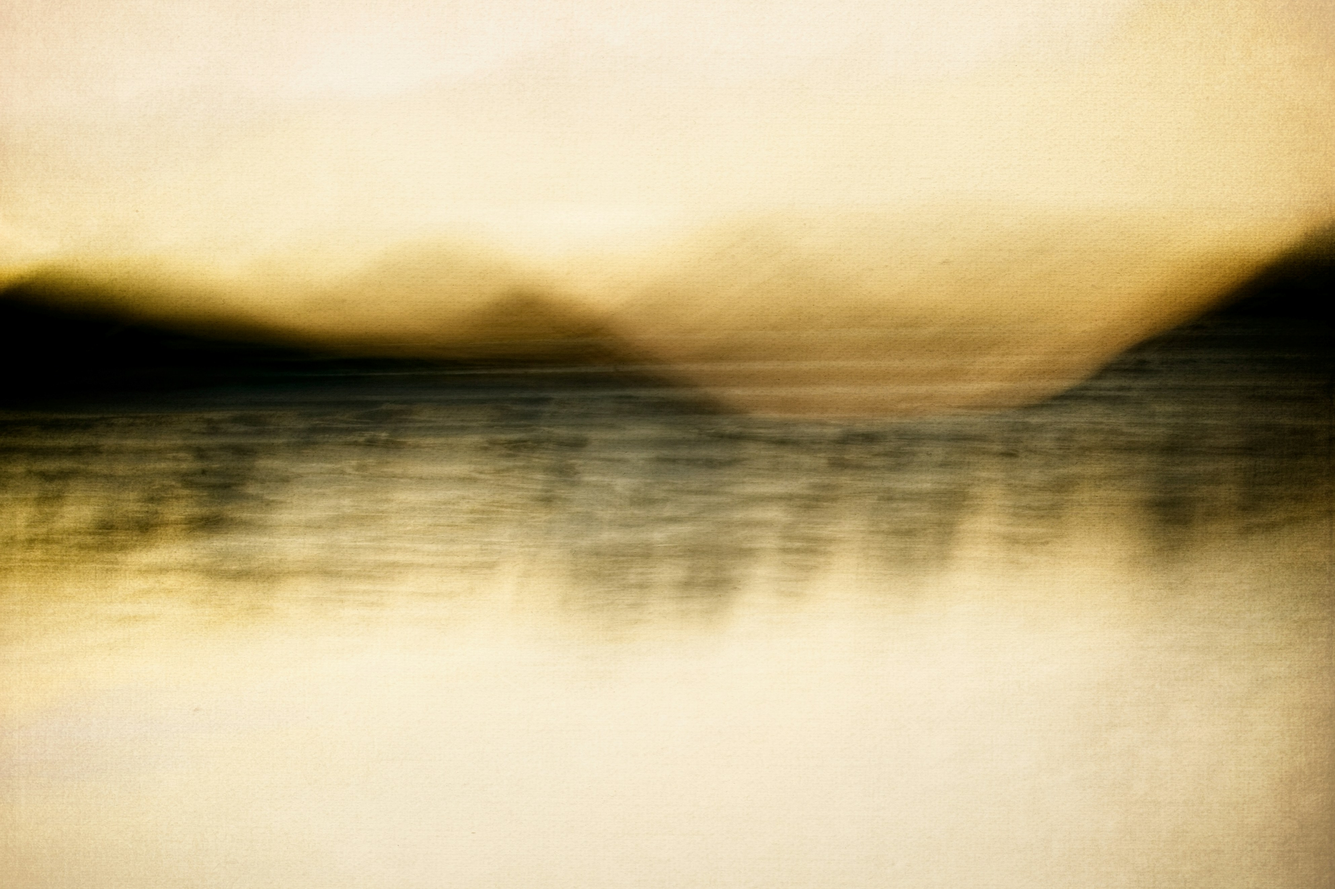
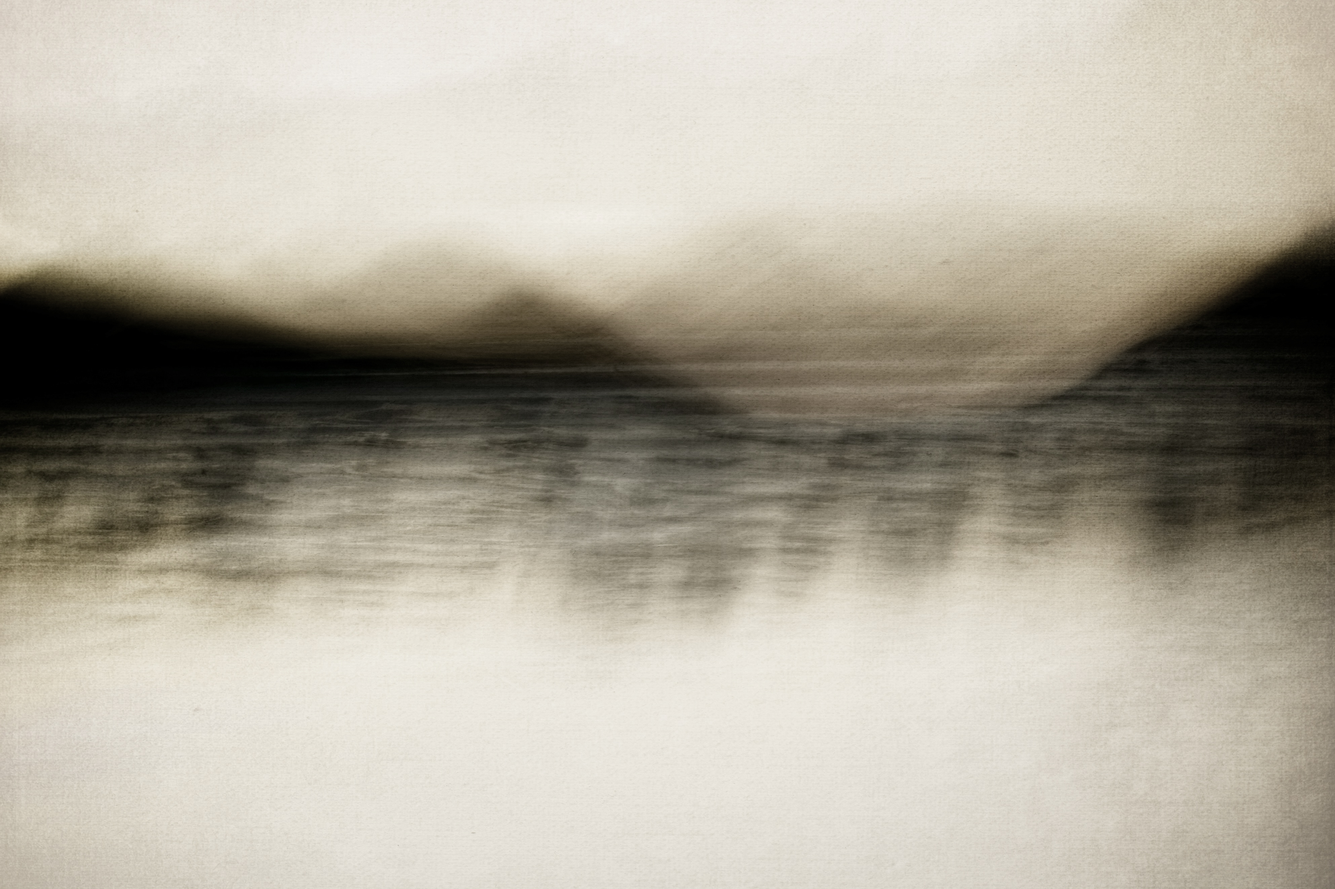
feat: color themes (wip)

Changed region(s): [[0.0, 0.4958, 1.0, 1.0], [0.0, 0.0, 1.0, 0.4958], [0.0, 0.8987, 0.0312, 1.0]]

diff --git a/src/components/CustomizeSidebar.vue b/src/components/CustomizeSidebar.vue
@@ -9,16 +9,16 @@
   >
     <div
       id="sidebar-wrapper"
-      class="bg-neutral-900/75 w-[20vw] h-[100%] min-w-fit absolute top-0 p-4 right-0 rounded-tl-3xl rounded-bl-3xl text-neutral-50 backdrop-blur"
+      class="bg-neutral-900/75 h-[100%] w-[19rem] absolute top-0 p-4 right-0 rounded-tl-3xl rounded-bl-3xl text-neutral-50 backdrop-blur text-[0.9375rem] tracking-[.085rem]"
     >
       <div
         class="h-12 w-12 cursor-pointer flex items-center justify-center"
         @click="appStore.closeSidebar"
       >
-        <XMarkIcon class="h-6 w-6 text-neutral-50" />
+        <XMarkIcon class="h-6 w-6 text-primary" />
       </div>
 
-      <article class="flex flex-col gap-9 px-4 pt-2">
+      <article class="flex flex-col gap-7 px-4 pt-2">
         <!-- Notification Sounds -->
         <section>
           <h3>Notification Sound</h3>
@@ -46,7 +46,7 @@
                       class="w-11 h-6 rounded-full transition-all"
                       :class="
                         appStore.selectedSound.name === sound.name
-                          ? 'bg-rose-200'
+                          ? 'bg-primary'
                           : 'bg-neutral-200/50'
                       "
                     ></div>
@@ -62,7 +62,7 @@
                     >
                       <CheckIcon
                         v-show="appStore.selectedSound.name === sound.name"
-                        class="h-3 w-3 text-rose-100 stroke-[5]"
+                        class="h-3 w-3 text-bg stroke-[5]"
                       />
                     </div>
                   </div>
@@ -81,7 +81,7 @@
                 <!-- Play Button -->
                 <button @click="playSound(sound.file)" class="cursor-pointer">
                   <PlayIcon
-                    class="w-6 h-6 text-rose-200 hover:text-neutral-50"
+                    class="w-6 h-6 text-primary hover:text-neutral-50"
                   />
                 </button>
               </div>
@@ -92,12 +92,48 @@
         <!-- Color Themes -->
         <section>
           <h3>Color Theme</h3>
+          <ul
+            class="grid grid-cols-5 gap-y-6 gap-x-3 w-fill justify-between py-3"
+          >
+            <li v-for="theme in appStore.themes" :key="theme">
+              <label class="relative flex flex-col items-center">
+                <!-- Hidden radio input -->
+                <input
+                  type="radio"
+                  class="sr-only"
+                  :value="theme"
+                  v-model="appStore.selectedTheme"
+                />
+
+                <!-- Visible input -->
+                <div
+                  class="border-2 rounded-[0.375rem] p-1 w-[2.15rem] h-[2.15rem] text-base text-center cursor-pointer hover:border-neutral-50 hover:text-neutral-50 transition-colors duration-150"
+                  :class="{
+                    'border-primary text-primary':
+                      appStore.selectedTheme !== theme,
+                    'border-neutral-50 text-neutral-50':
+                      appStore.selectedTheme === theme,
+                  }"
+                >
+                  t
+                </div>
+
+                <!-- Marker for selected option -->
+                <div
+                  v-show="appStore.selectedTheme === theme"
+                  class="absolute -bottom-2 left-1/2 -translate-x-1/2 w-5 h-0.5 bg-neutral-50 rounded"
+                ></div>
+              </label>
+            </li>
+          </ul>
         </section>
 
         <!-- Background images -->
         <section>
           <h3>Background Image</h3>
-          <ul class="flex flex-row gap-3 w-fill justify-between py-3">
+          <ul
+            class="grid grid-cols-5 gap-y-6 gap-x-3 w-fill justify-between py-3"
+          >
             <li v-for="image in appStore.backgrounds" :key="image.name">
               <label class="relative flex flex-col items-center">
                 <!-- Hidden radio input -->
@@ -112,7 +148,7 @@
                 <div
                   class="border-2 rounded-[0.375rem] p-1 w-[2.15rem] h-[2.15rem] text-base text-center cursor-pointer hover:border-neutral-50 hover:text-neutral-50 transition-colors duration-150"
                   :class="{
-                    'border-rose-200 text-rose-200':
+                    'border-primary text-primary':
                       appStore.selectedBackground !== image.name,
                     'border-neutral-50 text-neutral-50':
                       appStore.selectedBackground === image.name,
@@ -143,7 +179,7 @@ import { watch } from "vue";
 const appStore = useAppStore();
 appStore.loadUserSettings();
 
-// Run app store action when user changes a setting
+// Run appStore action when user changes a setting
 // Watch for changes to selectedSound
 watch(
   () => appStore.selectedSound.name,
@@ -159,6 +195,13 @@ watch(
   () => appStore.selectedBackground,
   (newBg) => {
     appStore.setBackground(newBg);
+  }
+);
+// Watch for changes to selectedTheme
+watch(
+  () => appStore.selectedTheme,
+  (newTheme) => {
+    appStore.setTheme(newTheme);
   }
 );
 

diff --git a/src/stores/appStore.js b/src/stores/appStore.js
@@ -15,6 +15,19 @@ export const useAppStore = defineStore("appStore", {
       { name: "3", file: "bg-3.jpg" },
       { name: "4", file: "bg-4.jpg" },
     ],
+    themes: [
+      "light-neutral",
+      "light-rose",
+      "light-blue",
+      "light-green",
+      "light-orange",
+      "dark-neutral",
+      "dark-rose",
+      "dark-blue",
+      "dark-green",
+      "dark-orange",
+    ],
+    selectedTheme: "light-rose",
     selectedSound: {
       name: "Sound 1",
       file: "snd-1.mp3",
@@ -37,14 +50,25 @@ export const useAppStore = defineStore("appStore", {
         JSON.stringify(this.selectedBackground)
       );
     },
+    setTheme(theme) {
+      if (this.themes.includes(theme)) {
+        this.selectedTheme = theme;
+        document.documentElement.setAttribute("data-theme", theme);
+        localStorage.setItem("selectedTheme", theme);
+      }
+    },
     loadUserSettings() {
       const storedSound = localStorage.getItem("selectedSound");
       const storedBackground = localStorage.getItem("selectedBackground");
+      const storedTheme = localStorage.getItem("selectedTheme");
       if (storedSound) {
         this.selectedSound = JSON.parse(storedSound);
       }
       if (storedBackground) {
         this.selectedBackground = JSON.parse(storedBackground);
+      }
+      if (storedTheme) {
+        this.selectedTheme = storedTheme;
       }
     },
     openSidebar() {

diff --git a/src/assets/main.css b/src/assets/main.css
@@ -1,4 +1,63 @@
 @import "tailwindcss";
+@theme {
+  --color-bg: #ffe4e6;
+  --color-primary: #fecdd3;
+  --color-text: #0a0a0a;
+}
+
+/* Light Themes */
+[data-theme="light-neutral"] {
+  --color-bg: #f1f1f1;
+  --color-primary: #bababa;
+  --color-text: #0a0a0a;
+}
+[data-theme="light-rose"] {
+  --color-bg: #ffe4e6;
+  --color-primary: #fecdd3;
+  --color-text: #0a0a0a;
+}
+[data-theme="light-blue"] {
+  --color-bg: #bdd9fe;
+  --color-primary: #abd1ff;
+  --color-text: #0a0a0a;
+}
+[data-theme="light-green"] {
+  --color-bg: #ccf0d5;
+  --color-primary: #a7edba;
+  --color-text: #0a0a0a;
+}
+[data-theme="light-orange"] {
+  --color-bg: #f4dac6;
+  --color-primary: #ffcaa2;
+  --color-text: #0a0a0a;
+}
+
+/* Dark Themes */
+[data-theme="dark-neutral"] {
+  --color-bg: #292929;
+  --color-primary: #818181;
+  --color-text: #999999;
+}
+[data-theme="dark-rose"] {
+  --color-bg: #2c2225;
+  --color-primary: #af8391;
+  --color-text: #999999;
+}
+[data-theme="dark-blue"] {
+  --color-bg: #232435;
+  --color-primary: #8a8acc;
+  --color-text: #999999;
+}
+[data-theme="dark-green"] {
+  --color-bg: #212822;
+  --color-primary: #81b78c;
+  --color-text: #999999;
+}
+[data-theme="dark-orange"] {
+  --color-bg: #292423;
+  --color-primary: #b79081;
+  --color-text: #999999;
+}
 
 html,
 body {

diff --git a/src/App.vue b/src/App.vue
@@ -15,7 +15,7 @@ const backgroundStyle = computed(() => {
 
 <template>
   <div
-    class="w-full h-full bg-rose-100 text-neutral-950 tracking-[0.8px] text-[1.125rem] lowercase"
+    class="w-full h-full bg-bg text-text tracking-[0.8px] text-[1.125rem] lowercase"
   >
     <!-- content layer -->
     <div class="z-50 w-full h-full grid grid-rows-[2.5rem_1fr]">
@@ -36,5 +36,3 @@ const backgroundStyle = computed(() => {
     ></div>
   </div>
 </template>
-
-<style scoped></style>

diff --git a/src/components/SolidButton.vue b/src/components/SolidButton.vue
@@ -1,6 +1,6 @@
 <template>
   <button
-    class="border-[0.16rem] border-neutral-600/40 bg-transparent px-4 py-[0.4375rem] rounded-[0.35rem] cursor-pointer text-neutral-800 lowercase max-w-fit hover:border-neutral-600/70 hover:text-neutral-950"
+    class="border-[0.125rem] border-text/50 bg-transparent px-4 py-[0.4375rem] rounded-[0.35rem] cursor-pointer text-text/90 lowercase max-w-fit hover:border-text/60 hover:text-text hover:bg-text/10"
   >
     {{ text }}
   </button>

diff --git a/src/components/AppHeader.vue b/src/components/AppHeader.vue
@@ -1,12 +1,13 @@
 <template>
   <div class="flex items-center justify-between pl-8 pr-4 h-16">
-    <h1 class="font-[100] tracking-[1px] text-neutral-950">nomu</h1>
+    <h1 class="font-[100] tracking-[1px] text-text">nomu</h1>
 
     <TextButton
       :icon="Cog6ToothIcon"
       text="Customize"
       @click="appStore.openSidebar"
       v-show="!appStore.sidebarVisible"
+      class="text-text"
     />
   </div>
 </template>

diff --git a/tailwind.config.js b/tailwind.config.js
@@ -1,0 +1,20 @@
+module.exports = {
+  content: ["./index.html", "./src/**/*.{vue,js,ts}"],
+  safelist: [
+    "bg-bg",
+    "text-text",
+    "bg-primary",
+    "text-primary",
+    "hover:bg-primary",
+    "hover:text-primary",
+  ],
+  theme: {
+    extend: {
+      colors: {
+        th: "var(--color-bg)",
+        primary: "var(--color-primary)",
+        text: "var(--color-text)",
+      },
+    },
+  },
+};

diff --git a/src/components/TextButton.vue b/src/components/TextButton.vue
@@ -1,6 +1,6 @@
 <template>
   <button
-    class="border-none bg-transparent px-4 py-[0.4375rem] cursor-pointer text-neutral-800 lowercase max-w-fit hover:text-neutral-950 flex items-center gap-3"
+    class="border-none bg-transparent px-4 py-[0.4375rem] cursor-pointer text-text lowercase max-w-fit hover:text-primary flex items-center gap-3"
   >
     <component :is="icon" class="h-6 w-6" />
     {{ text }}

diff --git a/src/main.js b/src/main.js
@@ -1,3 +1,9 @@
+// load theme from LS
+const savedTheme = localStorage.getItem("selectedTheme");
+if (savedTheme) {
+  document.documentElement.setAttribute("data-theme", savedTheme);
+}
+
 import "./assets/main.css";
 
 import { createApp } from "vue";
